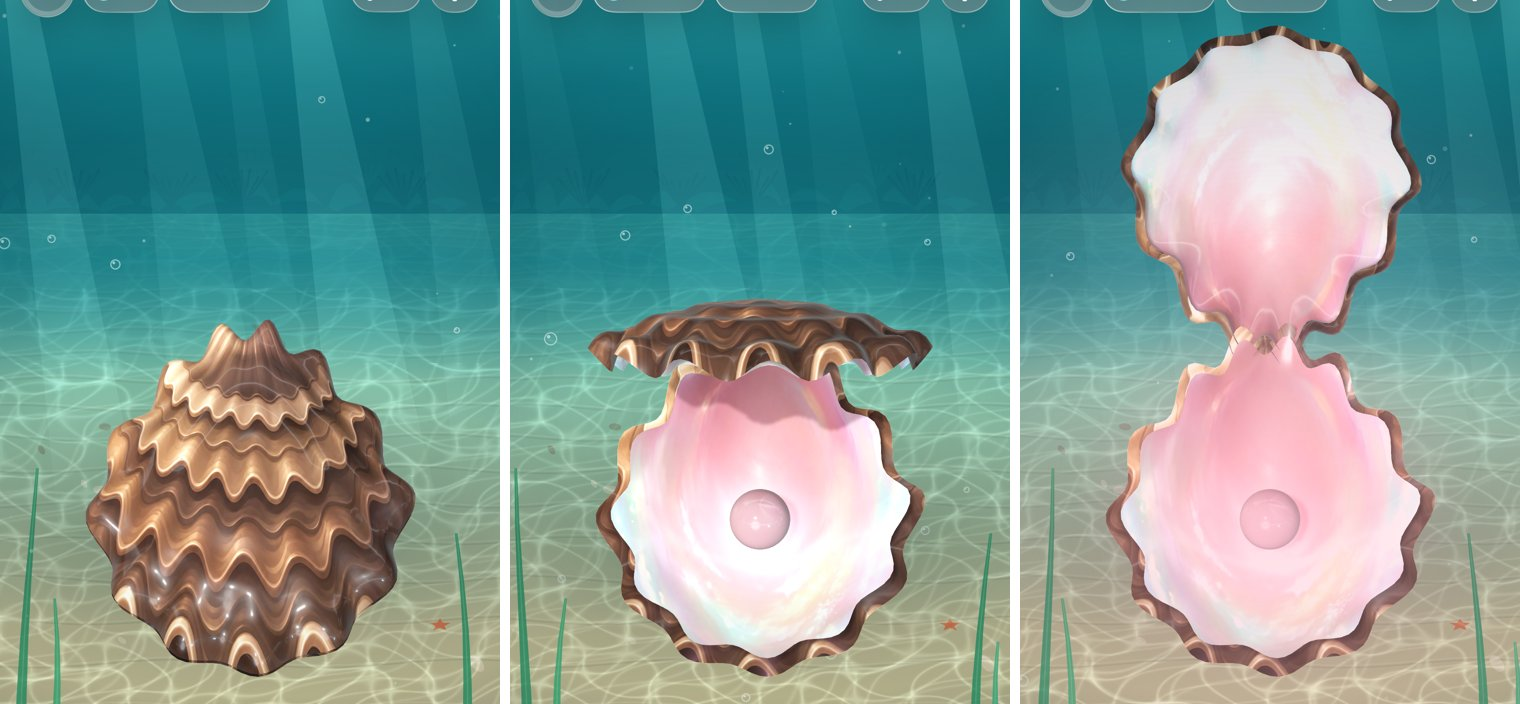
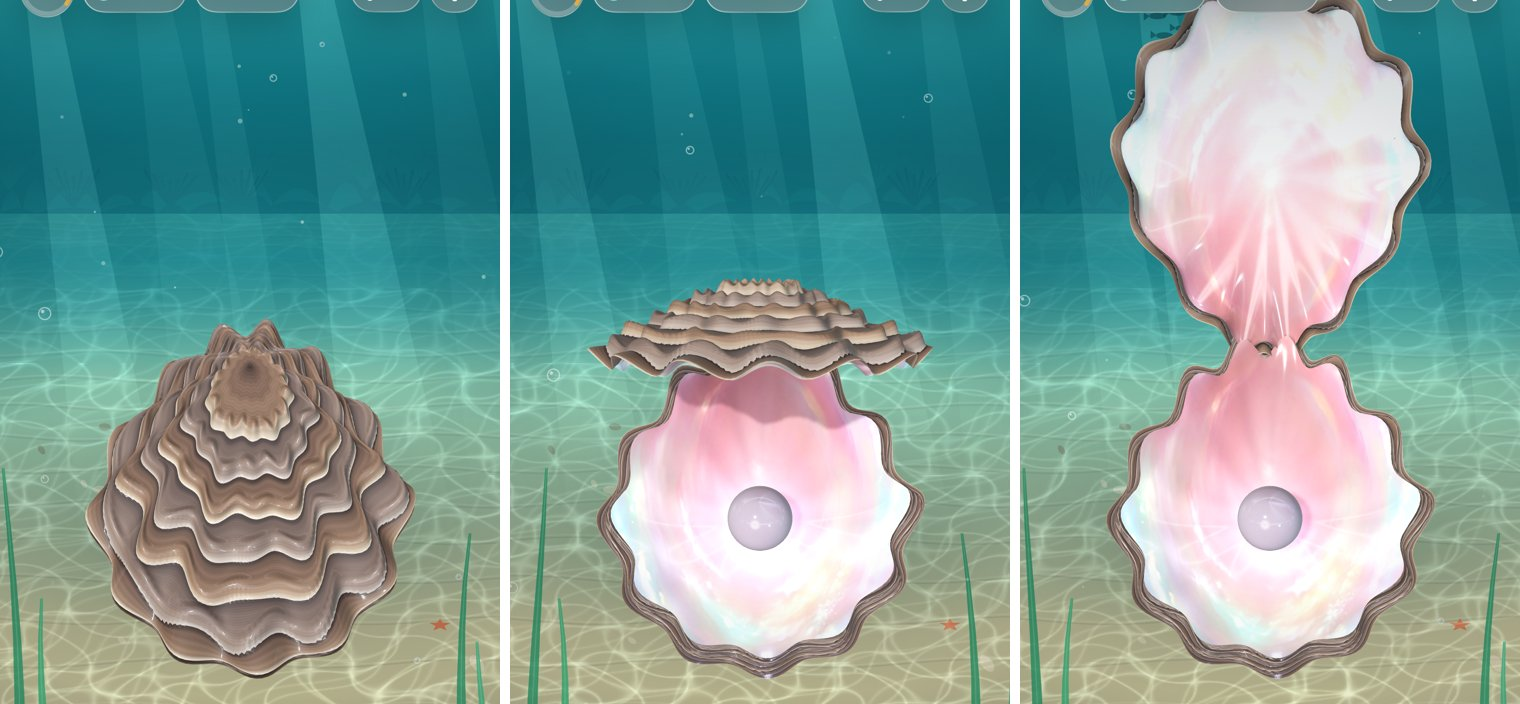
Essai 3D : coquille sculptée en lamelles et colorée par code (plus d'image collée)
Retour de Jules : la coquille texturée faisait « papier peint ». Les reliefs sont
maintenant dans la forme ; seule la nacre garde sa texture générée.

diff --git a/ios/PearlInc/Art/Oyster3D/Oyster3DView.swift b/ios/PearlInc/Art/Oyster3D/Oyster3DView.swift
@@ -37,6 +37,9 @@ struct Oyster3DView: UIViewRepresentable {
 /// Une valve mesure 1 de long (z de −0,5 à la charnière à +0,5 côté joueur) ; la vue SwiftUI fait 3 × L.
 @MainActor final class Oyster3DScene {
     private static let shape = ValveShape()
+    /// Six couches sur le couvercle, trois sur le bord de la valve du bas.
+    private static let lidLayers = Lamellae(edges: [0.93, 0.8, 0.67, 0.54, 0.41, 0.28], step: 0.022, riser: 0.03)
+    private static let skirtLayers = Lamellae(edges: [0.97, 0.935, 0.9], step: 0.01, riser: 0.012, wave: 0.02)
     private let root = AnchorEntity(world: .zero)
     private let lidPivot = Entity()
     private let pearl = ModelEntity()
@@ -45,26 +48,31 @@ struct Oyster3DView: UIViewRepresentable {
 
     func install(in view: ARView) {
         let s = Self.shape
-        let nacre = Self.material(texture: "oyster3d-nacre", roughness: 0.16, clearcoat: 1)
-        let shell = Self.material(texture: "oyster3d-shell", roughness: 0.42, clearcoat: 0.5)
+        let nacre = Self.material(Self.texture("oyster3d-nacre"), roughness: 0.16, clearcoat: 1)
+        let shell = Self.material(ShellTexture.make(layers: Self.lidLayers.edges.count + 1), roughness: 0.62, clearcoat: 0.25)
 
-        // Valve du bas : nacre creusée, et l'extérieur brun qui déborde en volants tout autour.
+        // Valve du bas : nacre creusée, et l'extérieur brun qui déborde tout autour en trois lamelles.
         root.addChild(ModelEntity(mesh: ValveMesh.make(s, scale: 1, up: true) { rho, phi in
-            -s.depth * (1 - rho * rho) + s.rimWave(rho, phi)
+            (-s.depth * (1 - rho * rho) + s.rimWave(rho, phi), nil)
         }, materials: [nacre]))
-        root.addChild(ModelEntity(mesh: ValveMesh.make(s, scale: 1.1, up: true) { rho, phi in
-            -s.depth * 1.08 * (1 - rho * rho) - 0.012 + s.rimWave(rho, phi) * 1.4
+        let skirt = Self.skirtLayers
+        root.addChild(ModelEntity(mesh: ValveMesh.make(s, scale: 1.1, up: true, rings: 90) { rho, phi in
+            let layers = skirt.sample(rho, phi)
+            return (-s.depth * 1.08 * (1 - rho * rho) - 0.02 + layers.height + s.rimWave(rho, phi) * 1.2, layers.uv)
         }, materials: [shell]))
 
-        // Couvercle : dôme à gradins dehors, nacre dessous ; il tourne autour de la charnière (axe x).
+        // Couvercle : lamelles empilées autour d'un sommet près de la charnière (comme une vraie huître),
+        // nacre dessous ; il tourne autour de la charnière (axe x).
         lidPivot.position = [0, 0.004, -s.halfLength]
         let lid = Entity()
         lid.position = [0, 0, s.halfLength]
-        lid.addChild(ModelEntity(mesh: ValveMesh.make(s, scale: 1.1, up: true) { rho, phi in
-            s.dome * pow(1 - rho * rho, 0.7) + 0.012 * sin(rho * 7 * .pi) * rho + s.rimWave(rho, phi) * 1.4
+        let layers = Self.lidLayers
+        lid.addChild(ModelEntity(mesh: ValveMesh.make(s, scale: 1.1, up: true, rings: 150, apexZ: -0.6) { rho, phi in
+            let sample = layers.sample(rho, phi)
+            return (0.05 * pow(1 - rho * rho, 0.6) + sample.height + s.rimWave(rho, phi) * 1.2, sample.uv)
         }, materials: [shell]))
         lid.addChild(ModelEntity(mesh: ValveMesh.make(s, scale: 1.02, up: false) { rho, phi in
-            s.dome * 0.7 * pow(1 - rho * rho, 0.7) - 0.006 + s.rimWave(rho, phi)
+            (0.05 * pow(1 - rho * rho, 0.7) - 0.008 + s.rimWave(rho, phi), nil)
         }, materials: [nacre]))
         lidPivot.addChild(lid)
         root.addChild(lidPivot)
@@ -129,9 +137,9 @@ struct Oyster3DView: UIViewRepresentable {
         Bundle.main.url(forResource: name, withExtension: "jpg").flatMap { try? TextureResource.load(contentsOf: $0) }
     }
 
-    private static func material(texture name: String, roughness: Float, clearcoat: Float) -> PhysicallyBasedMaterial {
+    private static func material(_ texture: TextureResource?, roughness: Float, clearcoat: Float) -> PhysicallyBasedMaterial {
         var material = PhysicallyBasedMaterial()
-        if let texture = texture(name) { material.baseColor = .init(texture: .init(texture)) }
+        if let texture { material.baseColor = .init(texture: .init(texture)) }
         material.roughness = .init(floatLiteral: roughness)
         material.clearcoat = .init(floatLiteral: clearcoat)
         material.clearcoatRoughness = 0.1
@@ -151,23 +159,27 @@ struct ValveShape {
     /// Le bord ondule aussi en hauteur.
     func rimWave(_ rho: Float, _ phi: Float) -> Float { 0.02 * sin(frills * phi + 0.7) * pow(rho, 6) }
 
-    /// Point du contour (x, z) pour rho 0…1 (centre → bord) et phi (π/2 : côté joueur, −π/2 : charnière).
-    func footprint(_ rho: Float, _ phi: Float, scale: Float) -> SIMD2<Float> {
+    /// Point (x, z) pour rho 0…1 (du sommet au bord) et phi (π/2 : côté joueur, −π/2 : charnière).
+    /// Le sommet est au centre, ou décalé vers la charnière (apexZ < 0) pour les lamelles du couvercle.
+    func footprint(_ rho: Float, _ phi: Float, scale: Float, apexZ: Float = 0) -> SIMD2<Float> {
         let back = max(0, -sin(phi))
-        let frill = 1 + 0.05 * sin(frills * phi + 0.7) * pow(rho, 3)
-        let r = rho * frill * scale
-        return [halfWidth * (1 - 0.35 * back) * r * cos(phi), halfLength * r * sin(phi)]
+        let frill = 1 + 0.05 * sin(frills * phi + 0.7)
+        let edge = SIMD2<Float>(halfWidth * (1 - 0.35 * back) * frill * scale * cos(phi), halfLength * frill * scale * sin(phi))
+        let apex = SIMD2<Float>(0, apexZ * halfLength)
+        return apex + (edge - apex) * rho
     }
 }
 
 /// Une valve en grille polaire (anneaux × rayons), normales calculées, texture projetée de dessus.
 enum ValveMesh {
-    static let rings = 30, spokes = 132
+    static let spokes = 180
 
-    static func make(_ s: ValveShape, scale: Float, up: Bool, height: (Float, Float) -> Float) -> MeshResource {
+    /// `surface` donne la hauteur et, pour la coquille, ses coordonnées de texture (nil : projetée de dessus).
+    static func make(_ s: ValveShape, scale: Float, up: Bool, rings: Int = 30, apexZ: Float = 0,
+                     surface: (Float, Float) -> (Float, SIMD2<Float>?)) -> MeshResource {
         func point(_ rho: Float, _ phi: Float) -> SIMD3<Float> {
-            let p = s.footprint(rho, phi, scale: scale)
-            return [p.x, height(rho, phi), p.y]
+            let p = s.footprint(rho, phi, scale: scale, apexZ: apexZ)
+            return [p.x, surface(rho, phi).0, p.y]
         }
         var positions: [SIMD3<Float>] = [], normals: [SIMD3<Float>] = [], uvs: [SIMD2<Float>] = []
         let e: Float = 0.002
@@ -181,7 +193,7 @@ enum ValveMesh {
                 positions.append(p)
                 normals.append(n.x.isNaN ? (up ? [0, 1, 0] : [0, -1, 0]) : n)
                 // L'image a la charnière en haut (v = 1) et le bord côté joueur en bas.
-                uvs.append([0.5 + p.x / (2.2 * s.halfWidth * scale), 0.5 - p.z / (2.2 * s.halfLength * scale)])
+                uvs.append(surface(rho, phi).1 ?? [0.5 + p.x / (2.2 * s.halfWidth * scale), 0.5 - p.z / (2.2 * s.halfLength * scale)])
             }
         }
         var indices: [UInt32] = []
@@ -198,5 +210,78 @@ enum ValveMesh {
         descriptor.textureCoordinates = MeshBuffers.TextureCoordinates(uvs)
         descriptor.primitives = .triangles(indices)
         return try! MeshResource.generate(from: [descriptor])
+    }
+}
+
+/// Les lamelles d'une coquille d'huître : des couches empilées, chacune avec son bord ondulé en relief.
+/// C'est la forme qui fait les reliefs (la lumière les suit), la texture ne fait que les colorer.
+struct Lamellae {
+    /// Où chaque couche s'arrête (rho), du bord vers le sommet.
+    var edges: [Float]
+    /// Hauteur d'une marche.
+    var step: Float
+    /// Largeur de la tombée du bord.
+    var riser: Float
+    /// Ondulation du bord de chaque couche.
+    var wave: Float = 0.045
+
+    private func edge(_ k: Int, _ phi: Float) -> Float {
+        // Moins de volants sur les petites couches du sommet ; fréquences entières (pas de couture à phi = 0).
+        edges[k] * (1 + wave * sin(Float(max(4, 12 - k * 2 + k / 2)) * phi + Float(k) * 2.1))
+    }
+
+    /// Hauteur ajoutée, et coordonnées de texture : u avance de couche en couche, du sommet vers le bord
+    /// (continu d'une couche à l'autre : la couleur change net au bord, pas en dents de peigne).
+    func sample(_ rho: Float, _ phi: Float) -> (height: Float, uv: SIMD2<Float>) {
+        var height: Float = 0, layer = 0
+        for k in edges.indices {
+            let b = edge(k, phi)
+            // Chaque couche monte d'une marche ; son bord roule un peu avant de tomber, et ondule en hauteur.
+            let lip = exp(-pow((rho - (b - riser * 1.4)) / (riser * 0.8), 2)) * (0.45 + 0.3 * sin((14 + Float(k)) * phi + Float(k)))
+            height += step * (1 - smooth(b - riser, b, rho) + lip)
+            if rho < b { layer = k + 1 }
+        }
+        let outer = layer == 0 ? 1 : edge(layer - 1, phi)
+        let inner = layer < edges.count ? edge(layer, phi) : 0
+        let u = min(1, max(0, (rho - inner) / max(0.001, outer - inner)))
+        return (height, [(Float(edges.count - layer) + u) / Float(edges.count + 1), 0.5])
+    }
+
+    private func smooth(_ a: Float, _ b: Float, _ x: Float) -> Float {
+        let t = min(1, max(0, (x - a) / (b - a)))
+        return t * t * (3 - 2 * t)
+    }
+}
+
+/// La couleur des lamelles, calculée (pas d'image) : pied sombre sous la couche du dessus, brun strié,
+/// bord clair ; une couche sur deux un peu plus grise, comme sur une vraie huître.
+enum ShellTexture {
+    static func make(layers: Int) -> TextureResource? {
+        let segment = 64, width = layers * segment, height = 4
+        var pixels = [UInt8](repeating: 255, count: width * height * 4)
+        func mix(_ a: SIMD3<Float>, _ b: SIMD3<Float>, _ t: Float) -> SIMD3<Float> { a + (b - a) * min(1, max(0, t)) }
+        let deep = SIMD3<Float>(0.13, 0.09, 0.08), mid = SIMD3<Float>(0.33, 0.25, 0.21)
+        let warm = SIMD3<Float>(0.47, 0.37, 0.3), lip = SIMD3<Float>(0.76, 0.7, 0.62), grey = SIMD3<Float>(0.4, 0.38, 0.41)
+        for y in 0..<height {
+            for x in 0..<width {
+                // Une couche par segment ; u : 0 au pied (sous la couche du dessus), 1 au bord.
+                let layer = x / segment
+                let u = (Float(x % segment) + 0.5) / Float(segment)
+                var c = u < 0.18 ? mix(deep, mid, u / 0.18) : u < 0.86 ? mix(mid, warm, (u - 0.18) / 0.68) : mix(warm, lip, (u - 0.86) / 0.14)
+                c *= 1 + 0.05 * sin(u * 25 + Float(layer) * 1.3) // stries de croissance
+                if layer % 2 == 1 { c = mix(c, grey * (0.6 + u * 0.6), 0.35) }
+                let noise = Float((x * 73 + y * 151) % 17) / 17 * 0.05 - 0.025
+                let i = (y * width + x) * 4
+                pixels[i] = UInt8(min(255, max(0, (c.x + noise) * 255)))
+                pixels[i + 1] = UInt8(min(255, max(0, (c.y + noise) * 255)))
+                pixels[i + 2] = UInt8(min(255, max(0, (c.z + noise) * 255)))
+            }
+        }
+        guard let provider = CGDataProvider(data: Data(pixels) as CFData),
+              let image = CGImage(width: width, height: height, bitsPerComponent: 8, bitsPerPixel: 32, bytesPerRow: width * 4,
+                                  space: CGColorSpace(name: CGColorSpace.sRGB)!, bitmapInfo: CGBitmapInfo(rawValue: CGImageAlphaInfo.noneSkipLast.rawValue),
+                                  provider: provider, decode: nil, shouldInterpolate: true, intent: .defaultIntent)
+        else { return nil }
+        return try? TextureResource.generate(from: image, options: .init(semantic: .color))
     }
 }

diff --git a/docs/JOURNAL.md b/docs/JOURNAL.md
@@ -10,7 +10,8 @@ Entrée la plus récente en haut. Format : date · qui · avec quel outil.
 
 **Fait**
 - **L'huître en vrai volume au pouce** (`Art/Oyster3D/Oyster3DView.swift`, RealityKit, `ARView` sans AR sur fond transparent) : deux valves construites par code (contour en goutte, 13 volants, creux de la nacre, dôme à gradins du couvercle), le couvercle tourne sur sa charnière avec le même angle que le dessin 2D (aucune règle dans la vue). Lumière principale avec ombre, lumière d'appoint, lueur de la couleur de la perle dans l'entrebâillement. Perle : sphère en nacre grise teintée de sa couleur.
-- **Textures tirées des images générées** (Higgsfield, `gpt_image_2_6` à partir de la référence de Jules : une valve du bas et un couvercle isolés), recadrées en `oyster3d-nacre.jpg`, `oyster3d-shell.jpg`, `oyster3d-pearl.jpg` (≈ 210 Ko en tout).
+- **Nacre** : texture tirée d'une image générée (Higgsfield, `gpt_image_2_6` à partir de la référence de Jules), `oyster3d-nacre.jpg` ; la perle prend la même nacre en gris (`oyster3d-pearl.jpg`).
+- **Coquille sculptée, sans image** (retour de Jules sur la 1re version : « on dirait du papier peint », les volants étaient peints sur une forme lisse). Le couvercle est fait de 6 lamelles empilées autour d'un sommet près de la charnière, chacune avec son bord ondulé et roulé en relief (`Lamellae`) ; le bord de la valve du bas en a 3. La couleur est calculée (`ShellTexture`) : pied sombre sous la couche du dessus, brun strié, bord clair, une couche sur deux plus grise.
 - `FishingView` : lagon dessous, coquille 3D, puis reflets du lagon, halo de la révélation et poisson voleur devant. Le dessin 2D reste pour le Duo, l'écran extérieur et le bénitier ; `-Oyster2D` au lancement le remet partout.
 - Les modèles 3D de Higgsfield n'ont pas servi : SAM 3D a échoué 4 fois (crédits rendus), `image_to_3d` coûte 20 à 30 crédits par valve.
 
